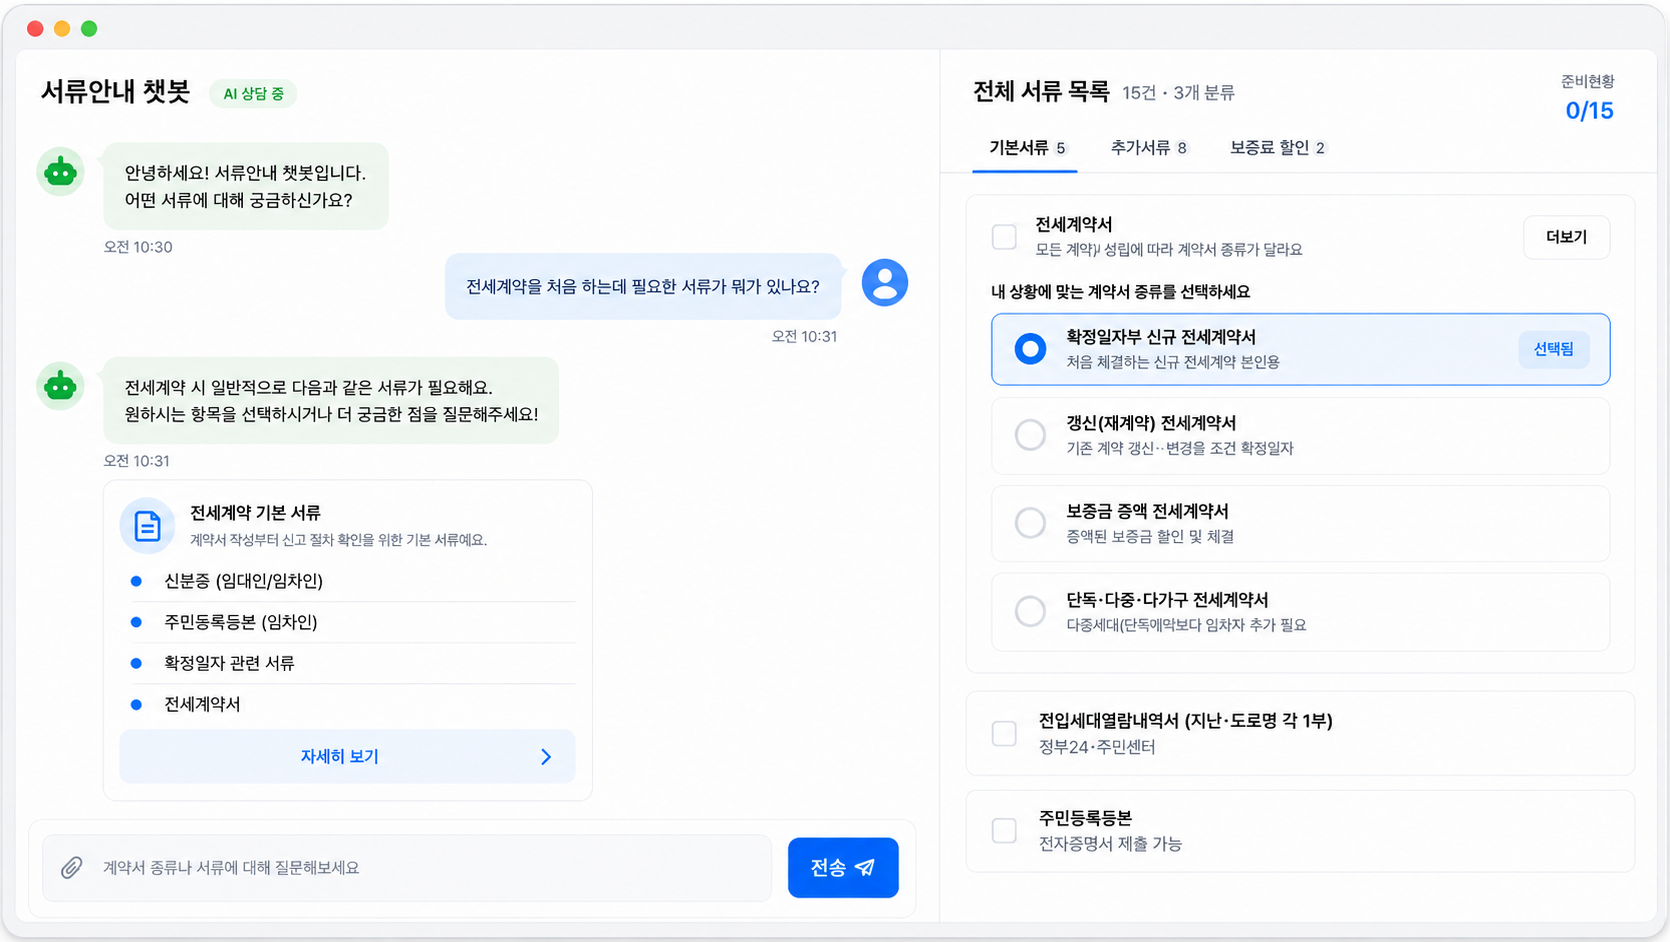
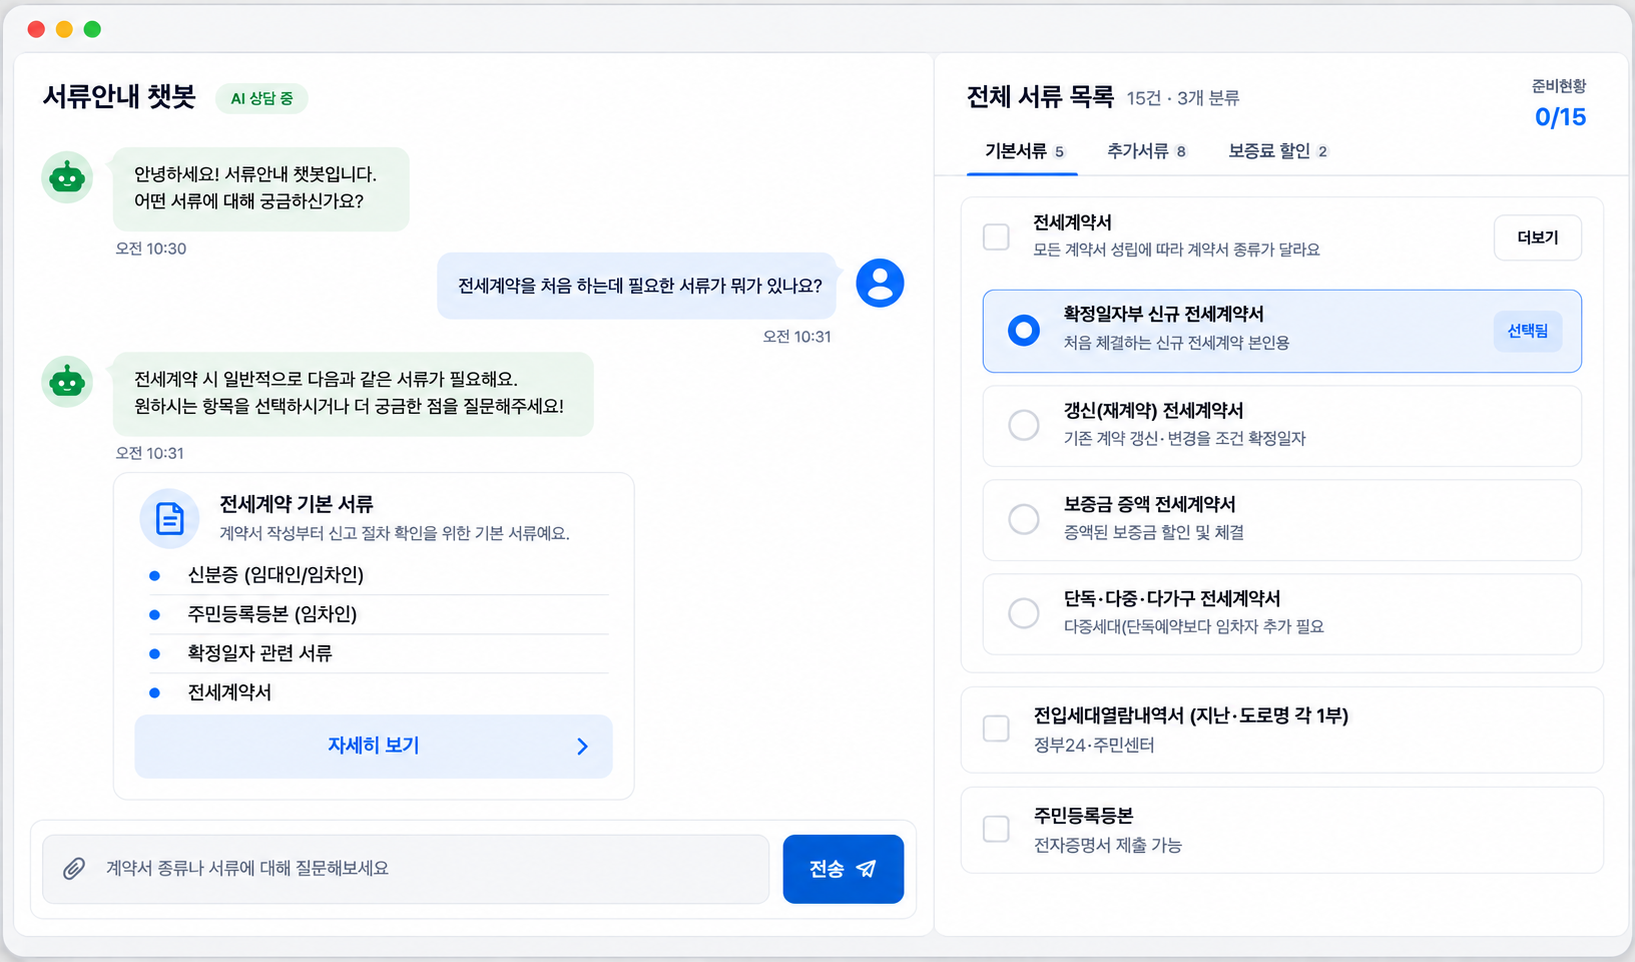
feat: 체크리스트 히어로 & 캐러쉘 완성

diff --git a/src/pages/LandingPage/LandingPage.jsx b/src/pages/LandingPage/LandingPage.jsx
@@ -68,8 +68,8 @@ const SLIDES = [
   },
   {
     id: 'checklist',
-    label: '④ 보증 준비 체크리스트',
-    title: '기본 서류부터 내 계약에 필요한 서류까지 확인해요',
+    label: '④ 체크리스트',
+    title: '내 계약에 필요한 서류를 한눈에 확인하세요',
     heroTitle: ['내가 준비해야 할 서류를', '체크리스트로 확인하세요'],
     heroSubtitle: [
       '기본 준비 서류를 바로 확인하고,',
@@ -79,11 +79,12 @@ const SLIDES = [
     secondaryCtaLabel: '맞춤 서류 확인',
     heroNote: '기본 체크리스트 바로 이용 · 맞춤 서류 확인은 로그인 필요',
     description: [
-      '기본 체크리스트와 서류 정보를 확인하고,',
+      '기본 준비 서류를 확인하고,',
       '로그인하면 임대차계약서를 바탕으로 내게 필요한 서류만 확인할 수 있어요',
     ],
-    cardCtaLabel: '기본 체크리스트 보기',
-    image: '/images/landing/landing-feature-4.svg',
+    featurePoints: ['기본 준비 서류 확인', '서류별 상세 정보 제공', '계약서 기반 맞춤 서류 확인'],
+    cardCtaLabel: '체크리스트 확인하기',
+    image: '/images/landing/Carousel4.png',
     // TODO: 체크리스트는 상품(productCode)이 정해져야 이동 가능한 라우트라 우선 상품 목록으로 연결. 최종 목적지 확인 필요
     to: '/products',
   },
